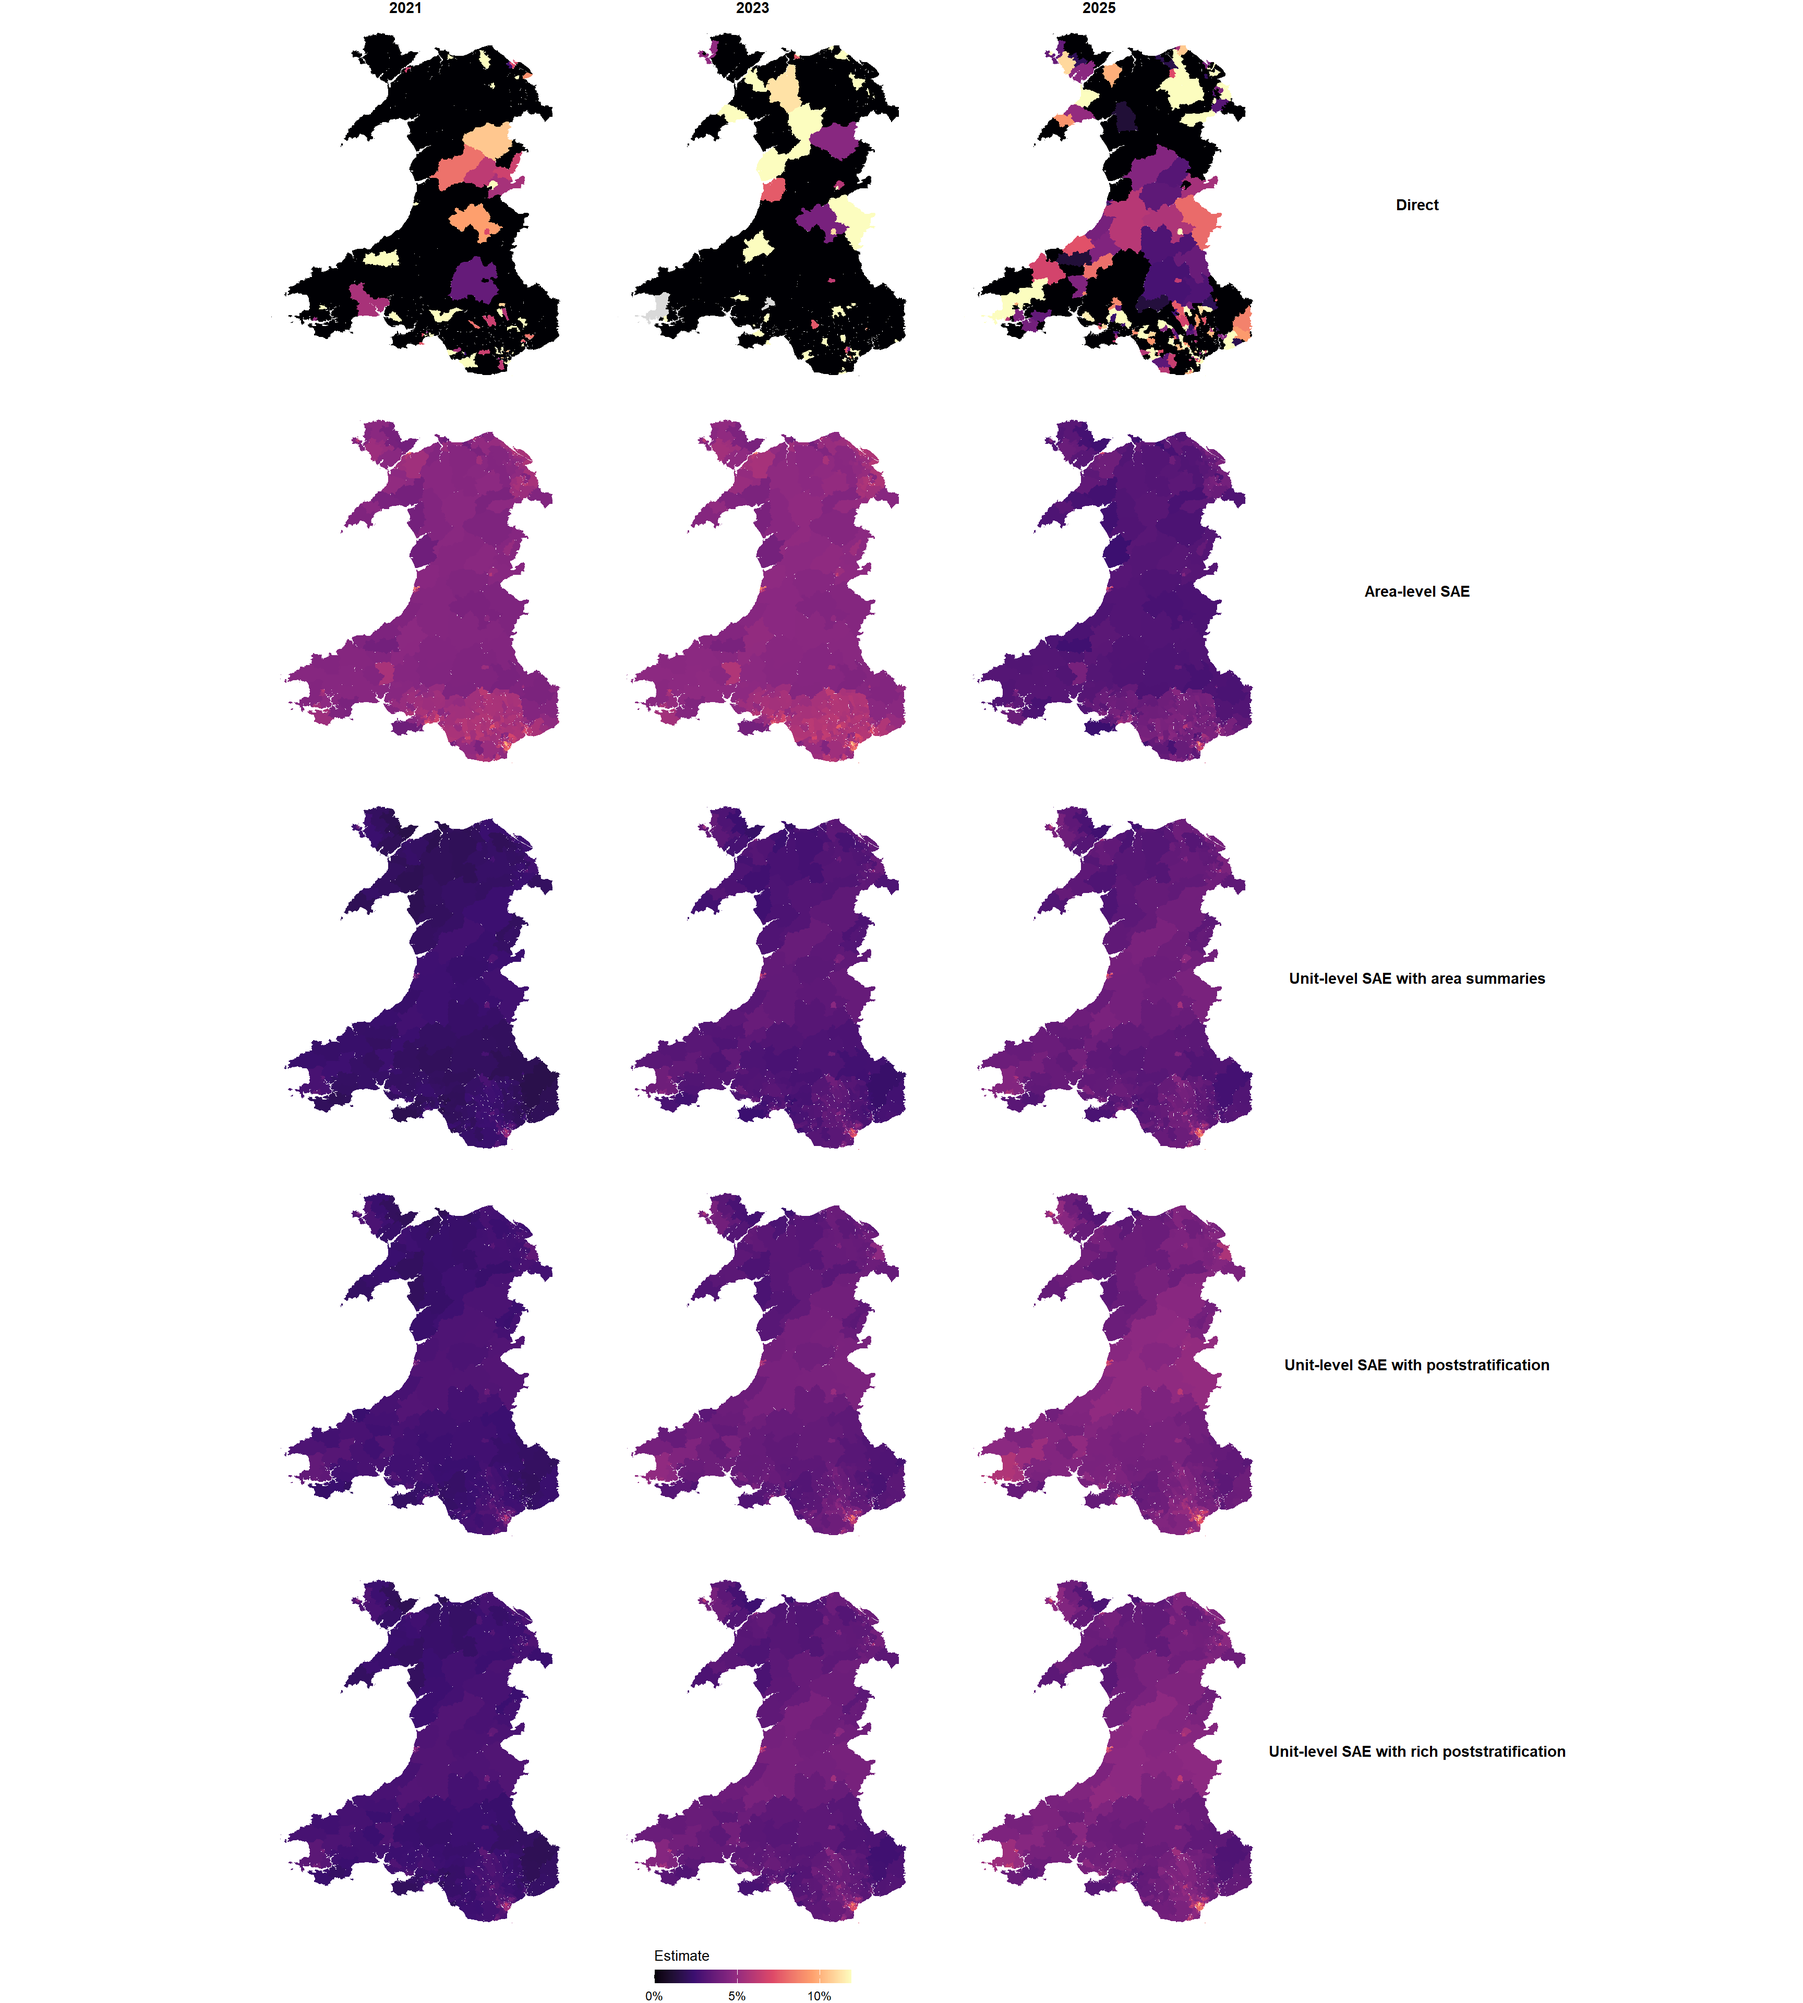
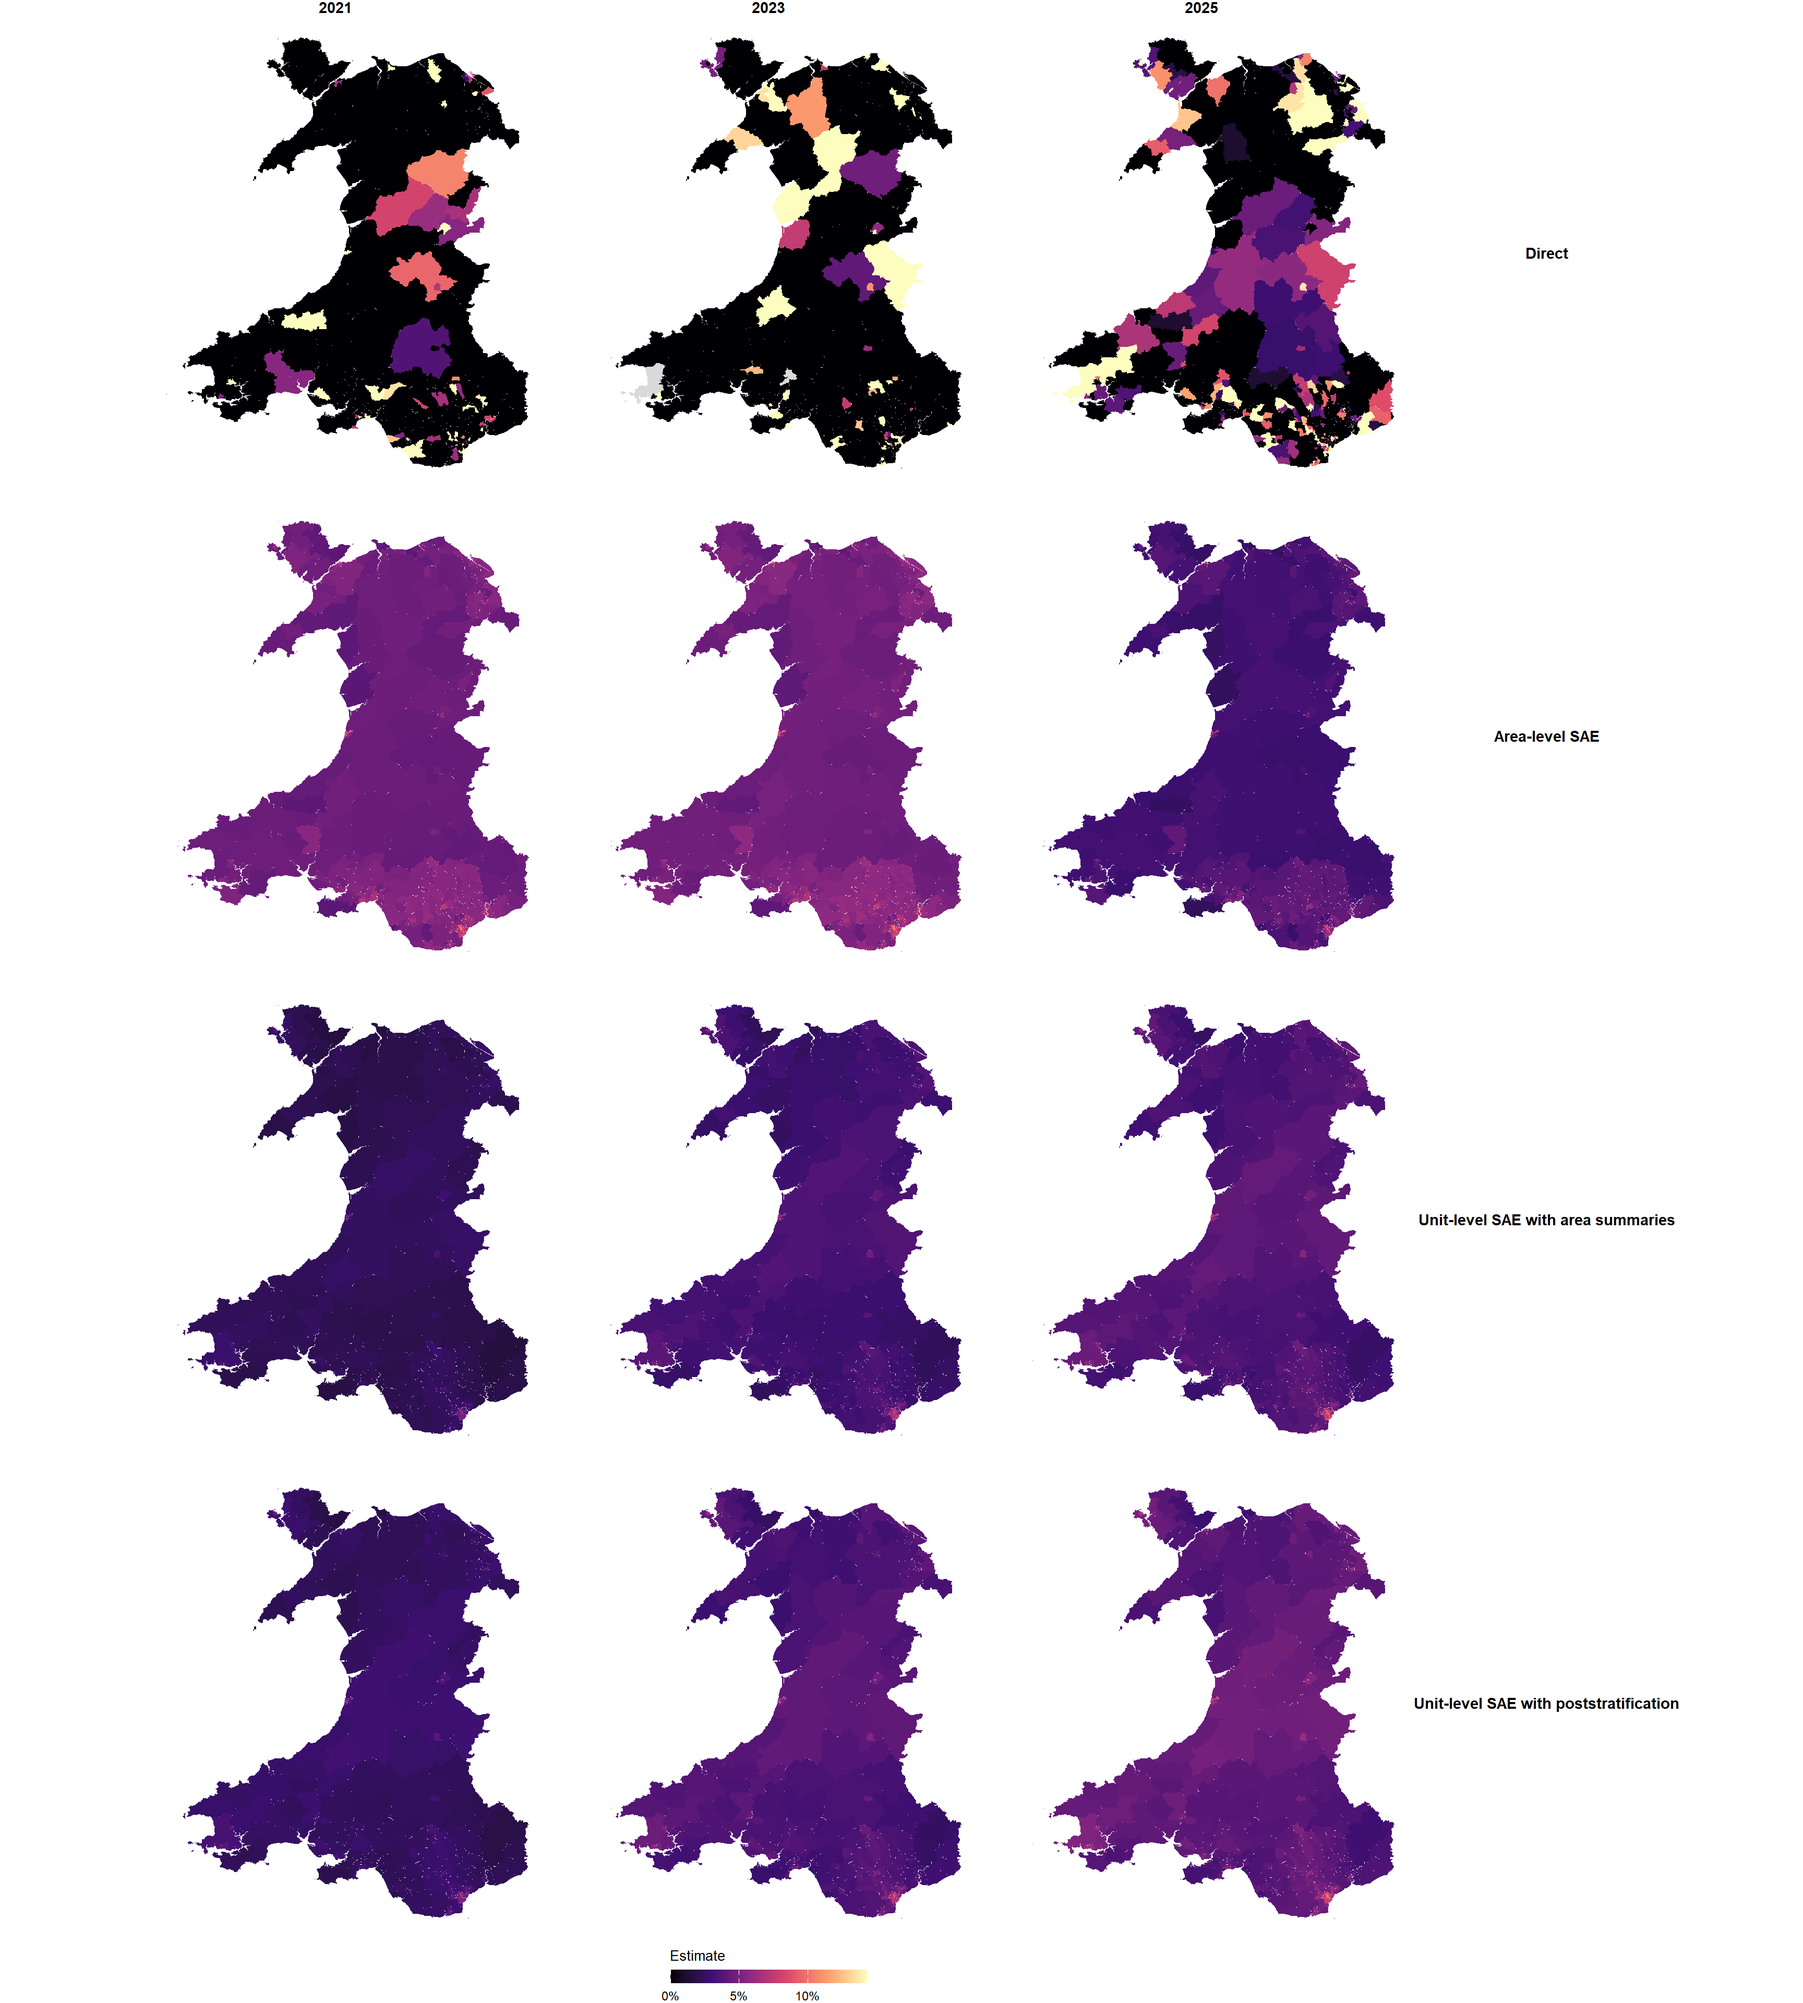
.

Changed region(s): [[0.3438, 0.0, 0.7812, 1.0], [0.0938, 0.0, 0.3125, 0.9688], [0.7812, 0.8438, 0.9062, 0.875]]

diff --git a/docs/diagnostics.html b/docs/diagnostics.html
@@ -244,10 +244,9 @@ ul.task-list li input[type="checkbox"] {
     <h2 id="toc-title">On this page</h2>
    
   <ul>
-  <li><a href="#method-choice-and-trade-offs" id="toc-method-choice-and-trade-offs" class="nav-link active" data-scroll-target="#method-choice-and-trade-offs"><span class="header-section-number">1</span> Method Choice and Trade-Offs</a></li>
-  <li><a href="#estimate-scale-and-smoothing" id="toc-estimate-scale-and-smoothing" class="nav-link" data-scroll-target="#estimate-scale-and-smoothing"><span class="header-section-number">2</span> Estimate Scale and Smoothing</a></li>
-  <li><a href="#uncertainty-ci-width" id="toc-uncertainty-ci-width" class="nav-link" data-scroll-target="#uncertainty-ci-width"><span class="header-section-number">3</span> Uncertainty CI Width</a></li>
-  <li><a href="#residual-area-effects" id="toc-residual-area-effects" class="nav-link" data-scroll-target="#residual-area-effects"><span class="header-section-number">4</span> Residual Area Effects</a></li>
+  <li><a href="#estimate-scale-and-smoothing" id="toc-estimate-scale-and-smoothing" class="nav-link active" data-scroll-target="#estimate-scale-and-smoothing"><span class="header-section-number">1</span> Estimate Scale and Smoothing</a></li>
+  <li><a href="#uncertainty-ci-width" id="toc-uncertainty-ci-width" class="nav-link" data-scroll-target="#uncertainty-ci-width"><span class="header-section-number">2</span> Uncertainty CI Width</a></li>
+  <li><a href="#residual-area-effects" id="toc-residual-area-effects" class="nav-link" data-scroll-target="#residual-area-effects"><span class="header-section-number">3</span> Residual Area Effects</a></li>
   </ul>
 </nav>
     </div>
@@ -257,7 +256,7 @@ ul.task-list li input[type="checkbox"] {
 <header id="title-block-header" class="quarto-title-block default">
 <div class="quarto-title">
 <h1 class="title">Model diagnostics and comparison</h1>
-<p class="subtitle lead">Benefits and trade-offs</p>
+<p class="subtitle lead">Estimates, uncertainty, and residual structure</p>
 </div>
 
 
@@ -272,9 +271,7 @@ ul.task-list li input[type="checkbox"] {
 
 </header>
 
-<p>This comparison focuses on the trade-offs between direct estimation, area-level SAE, unit-level SAE with area summaries, and unit-level SAE with poststratification. The diagnostics compare the scale and smoothness of the estimates, agreement between methods, uncertainty, and local residual structure used by the models.</p>
-<section id="method-choice-and-trade-offs" class="level2" data-number="1">
-<h2 data-number="1" class="anchored" data-anchor-id="method-choice-and-trade-offs"><span class="header-section-number">1</span> Method Choice and Trade-Offs</h2>
+<p>This comparison focuses on the trade-offs between direct estimation, area-level SAE, unit-level SAE models, with and without poststratification.</p>
 <table class="table">
 <colgroup>
 <col style="width: 25%">
@@ -285,49 +282,45 @@ ul.task-list li input[type="checkbox"] {
 <thead>
 <tr class="header">
 <th>Method</th>
-<th>Main input</th>
-<th>Predictors</th>
-<th>Limitation</th>
+<th>Estimation approach</th>
+<th>Data requirements</th>
+<th>Main limitation</th>
 </tr>
 </thead>
 <tbody>
 <tr class="odd">
-<td>Direct</td>
-<td>Survey responses within each MSOA-year cell</td>
+<td>Direct estimation</td>
+<td>Uses survey responses within each MSOA-year cell to calculate a survey-weighted direct estimate.</td>
 <td>None</td>
 <td>Sparse or missing cells can give unstable estimates.</td>
 </tr>
 <tr class="even">
 <td>Area-level SAE</td>
-<td>Direct estimates and sampling variances</td>
-<td>MSOA-level age, population density, and car access</td>
-<td>Stabilises direct estimates, but still depends on weak direct inputs.</td>
+<td>Uses direct estimates and sampling variances, then smooths them with an area-level model.</td>
+<td>Low</td>
+<td>Depends on the quality of the direct estimates.</td>
 </tr>
 <tr class="odd">
-<td>Unit-level SAE</td>
-<td>Survey microdata with area-level summaries</td>
-<td>Age, sex, and car access, represented by MSOA summaries</td>
-<td>Uses individual outcomes, but does not consider survey weights and only approximates population composition.</td>
+<td>Unit-level SAE with area summaries</td>
+<td>Fits a unit-level model to survey microdata, then evaluates it using MSOA-level predictor summaries.</td>
+<td>Medium</td>
+<td>Area summaries only approximate the population composition, not robust for binary outcome.</td>
 </tr>
 <tr class="even">
 <td>Unit-level SAE with poststratification</td>
-<td>Survey microdata plus age-sex population cells</td>
-<td>Age and sex</td>
-<td>Reweights predictions to the population for all waves using mid-year population estimates, but only across age and sex.</td>
-</tr>
-<tr class="odd">
-<td>Unit-level SAE with rich poststratification</td>
-<td>Survey microdata plus age-sex-car population cells</td>
-<td>Age, sex, and car access</td>
-<td>Better matches population structure, but reuses the Census 2021 structure across waves.</td>
+<td>Fits a unit-level model to survey microdata, predicts age-sex-car population cells, then aggregates using cell counts.</td>
+<td>High</td>
+<td>The 2021 population structure is reused for later years.</td>
 </tr>
 </tbody>
 </table>
-</section>
-<section id="estimate-scale-and-smoothing" class="level2" data-number="2">
-<h2 data-number="2" class="anchored" data-anchor-id="estimate-scale-and-smoothing"><span class="header-section-number">2</span> Estimate Scale and Smoothing</h2>
-<p>The distribution and rank plots show how much each method changes the spread of MSOA-year estimates, and the maps show where each method changes the local pattern of estimated frequent cycling.</p>
-<p>Direct estimates retain the most cell-level jaggedness, while the model-based approaches borrow strength across areas, years, predictors, or poststratification cells.</p>
+<section id="estimate-scale-and-smoothing" class="level2" data-number="1">
+<h2 data-number="1" class="anchored" data-anchor-id="estimate-scale-and-smoothing"><span class="header-section-number">1</span> Estimate Scale and Smoothing</h2>
+<p>The distribution and rank plots compare the spread of MSOA-year estimates across methods, while the maps compare the local pattern of estimated frequent cycling.</p>
+<ul>
+<li><strong>Direct estimates</strong> retain the most cell-level variation. Model-based estimates are smoother because they borrow strength across areas, years, predictors, or poststratification cells. The <strong>area-level FH model</strong> is anchored by the direct estimates, so weak direct evidence can still influence the modelled results. The lower mean estimate in 2023 is consistent with weaker direct-estimate input in that wave, possibly due to smaller sample sizes.</li>
+<li>Differences between the two <strong>unit-level models</strong> are more subtle because they use similar models and spatio-temporal structure. Their main difference is the aggregation step: the poststratified model averages predictions over age-sex-car population cells, while the area-summary model substitutes MSOA-level predictor summaries. Poststratification better aligns predictions with the target population composition; area-summary substitution is more approximate and does not itself correct survey selection bias.</li>
+</ul>
 <div class="cell">
 <div class="cell-output-display">
 <p><img src="diagnostics_files/figure-html/diag-estimate-dist-rank-1.png" class="img-fluid" style="width:100.0%"></p>
@@ -344,9 +337,9 @@ ul.task-list li input[type="checkbox"] {
 </div>
 </div>
 </section>
-<section id="uncertainty-ci-width" class="level2" data-number="3">
-<h2 data-number="3" class="anchored" data-anchor-id="uncertainty-ci-width"><span class="header-section-number">3</span> Uncertainty CI Width</h2>
-<p>Interval width shows the precision gained or lost by each method. Direct-estimate widths reflect sampling variance, while model-based widths reflect posterior uncertainty after borrowing strength across areas, years, predictors, or population cells.</p>
+<section id="uncertainty-ci-width" class="level2" data-number="2">
+<h2 data-number="2" class="anchored" data-anchor-id="uncertainty-ci-width"><span class="header-section-number">2</span> Uncertainty CI Width</h2>
+<p>Interval width shows the precision gained or lost by each method. Direct-estimate widths reflect sampling variance, while model-based widths reflect posterior uncertainty after borrowing strength across areas, years, or predictors.</p>
 <div class="cell">
 <div class="cell-output-display">
 <p><img src="diagnostics_files/figure-html/diag-ci-map-1.png" class="img-fluid" style="width:100.0%"></p>
@@ -358,9 +351,9 @@ ul.task-list li input[type="checkbox"] {
 </div>
 </div>
 </section>
-<section id="residual-area-effects" class="level2" data-number="4">
-<h2 data-number="4" class="anchored" data-anchor-id="residual-area-effects"><span class="header-section-number">4</span> Residual Area Effects</h2>
-<p>The unstructured area-effect maps show where the fitted models allocate remaining area-level variation after the fixed effects and temporal and spatial structure are considered. These area effects are time-stable model terms, so they are shown once per method alongside the selected-year diagnostics.</p>
+<section id="residual-area-effects" class="level2" data-number="3">
+<h2 data-number="3" class="anchored" data-anchor-id="residual-area-effects"><span class="header-section-number">3</span> Residual Area Effects</h2>
+<p>The unstructured area-effect maps show where the fitted models allocate remaining area-level variation after the fixed effects and temporal and spatial structure are considered.</p>
 <div class="cell">
 <div class="cell-output-display">
 <p><img src="diagnostics_files/figure-html/diag-area-effect-map-1.png" class="img-fluid" style="width:100.0%"></p>
